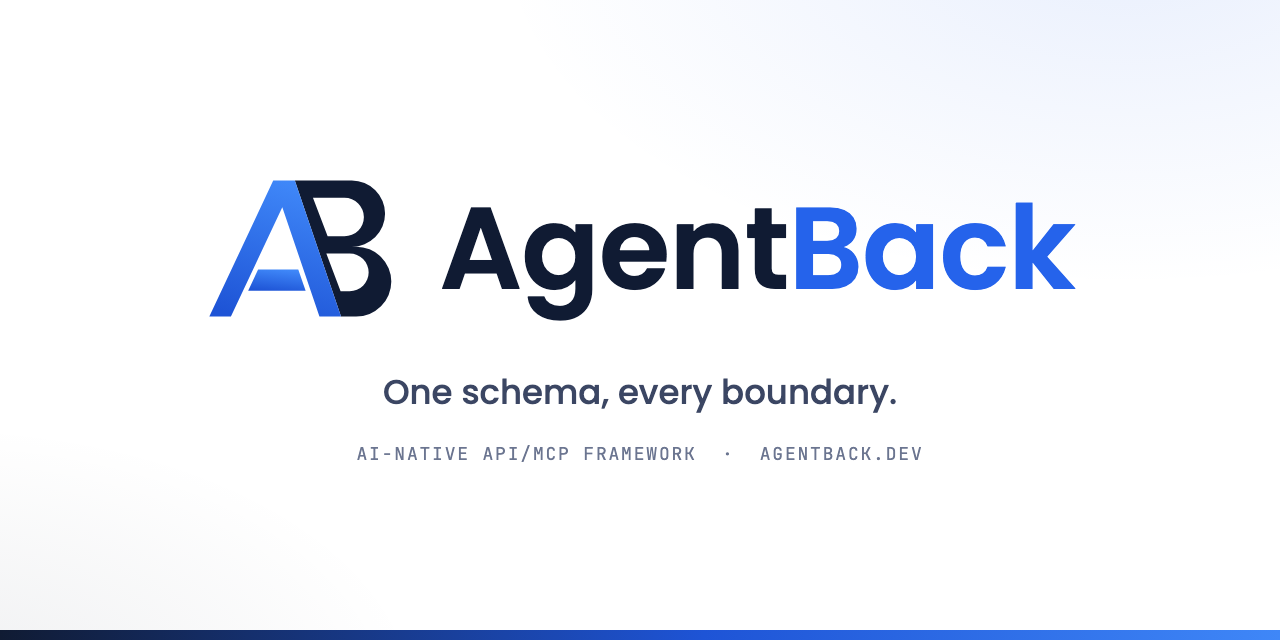
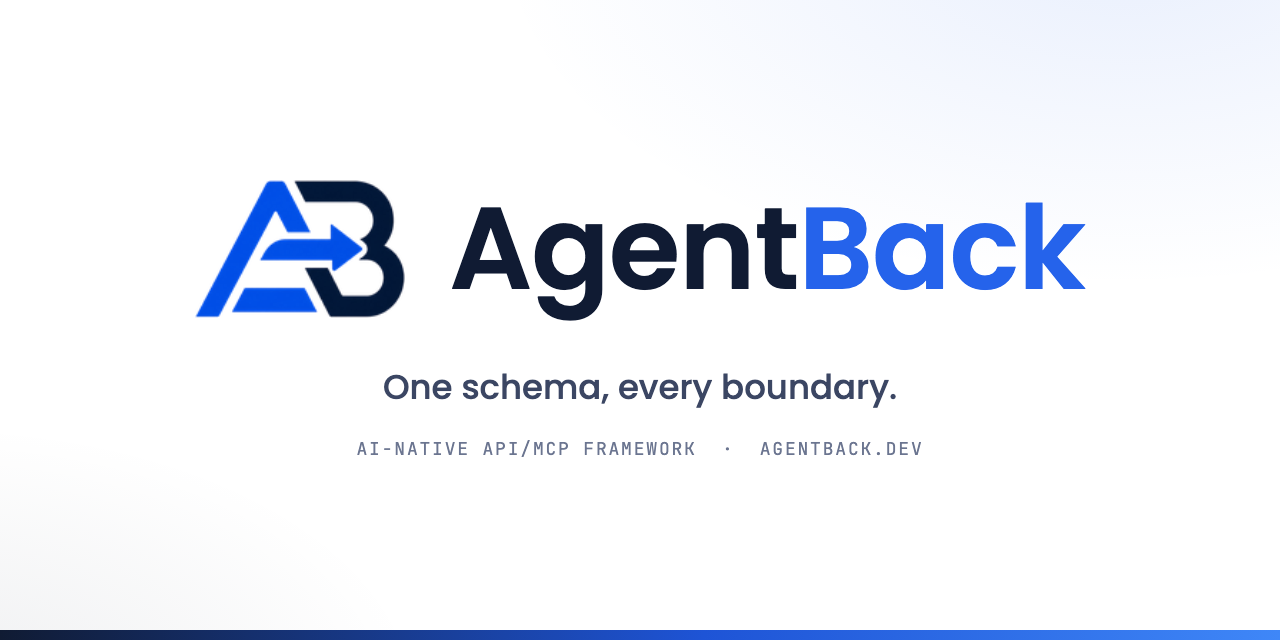
feat(brand): use the supplied AB arrow-mark PNG directly
Replace the traced SVG with the original artwork: white background made
transparent and canvas trimmed (Pillow), emitted as logo.png (512 square,
favicon), logo-mark.png (wide, header), and apple-touch-icon.png. Banner
recomposed around the new mark.

diff --git a/website/index.html b/website/index.html
@@ -21,7 +21,8 @@
     <meta name="twitter:card" content="summary_large_image" />
     <meta name="twitter:image" content="https://agentback.dev/banner.png" />
     <link rel="canonical" href="https://agentback.dev" />
-    <link rel="icon" type="image/svg+xml" href="logo.svg" />
+    <link rel="icon" type="image/png" href="logo.png" />
+    <link rel="apple-touch-icon" href="apple-touch-icon.png" />
     <link rel="preconnect" href="https://fonts.googleapis.com" />
     <link rel="preconnect" href="https://fonts.gstatic.com" crossorigin />
     <link
@@ -34,7 +35,7 @@
     <header class="site-header">
       <nav class="nav" aria-label="Primary">
         <a class="brand" href="index.html"
-          ><img class="brand-mark" src="logo.svg" alt="" />AgentBack<span
+          ><img class="brand-mark" src="logo-mark.png" alt="" />AgentBack<span
             class="brand-dot"
             >.dev</span
           ></a

diff --git a/website/styles.css b/website/styles.css
@@ -92,10 +92,9 @@ code {
 }
 
 .brand-mark {
-  border-radius: 6px;
-  height: 24px;
+  height: 21px;
   margin-right: 9px;
-  width: 24px;
+  width: auto;
 }
 
 .brand-dot {